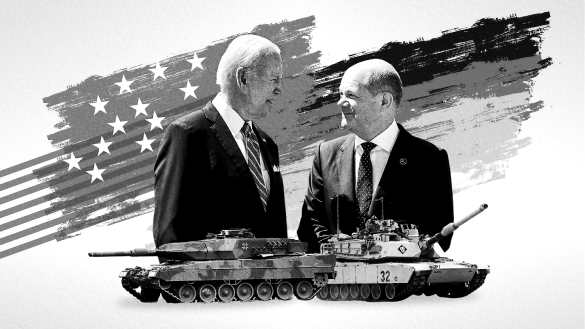
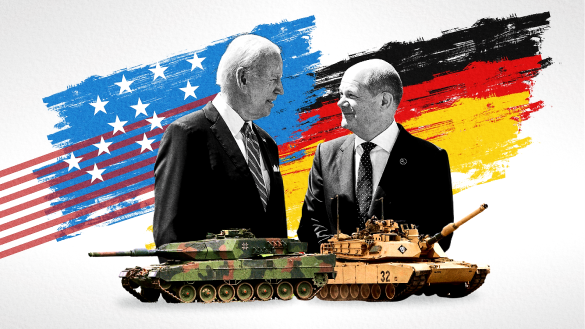
Added colored hovers to images

diff --git a/css/styles.css b/css/styles.css
@@ -393,10 +393,17 @@ body {
     background-color: transparent;
     padding: 7px 10px;
     margin-right: 20px;
+    cursor: pointer;
+    border-radius: 27px;
+    transition: all .2s linear;
+}
+
+.tabs__btns button:hover {
+    background: #ECBC61;
+    transition: all .3s linear;
 }
 
 .tabs__btns button.active {
-    border-radius: 27px;
     background: #ECBC61;
 }
 
@@ -883,6 +890,14 @@ body {
     .graphic-slider__link img,
     .web-slider__link img {
         width: 100%;
+        filter: grayscale(100%);
+        transition: all .3s linear;
+    }
+
+    .graphic-slider__link img:hover,
+    .web-slider__link img:hover {
+        filter: grayscale(0);
+        transition: all .3s linear;
     }
 
     .portfolio__graphic-slider,
